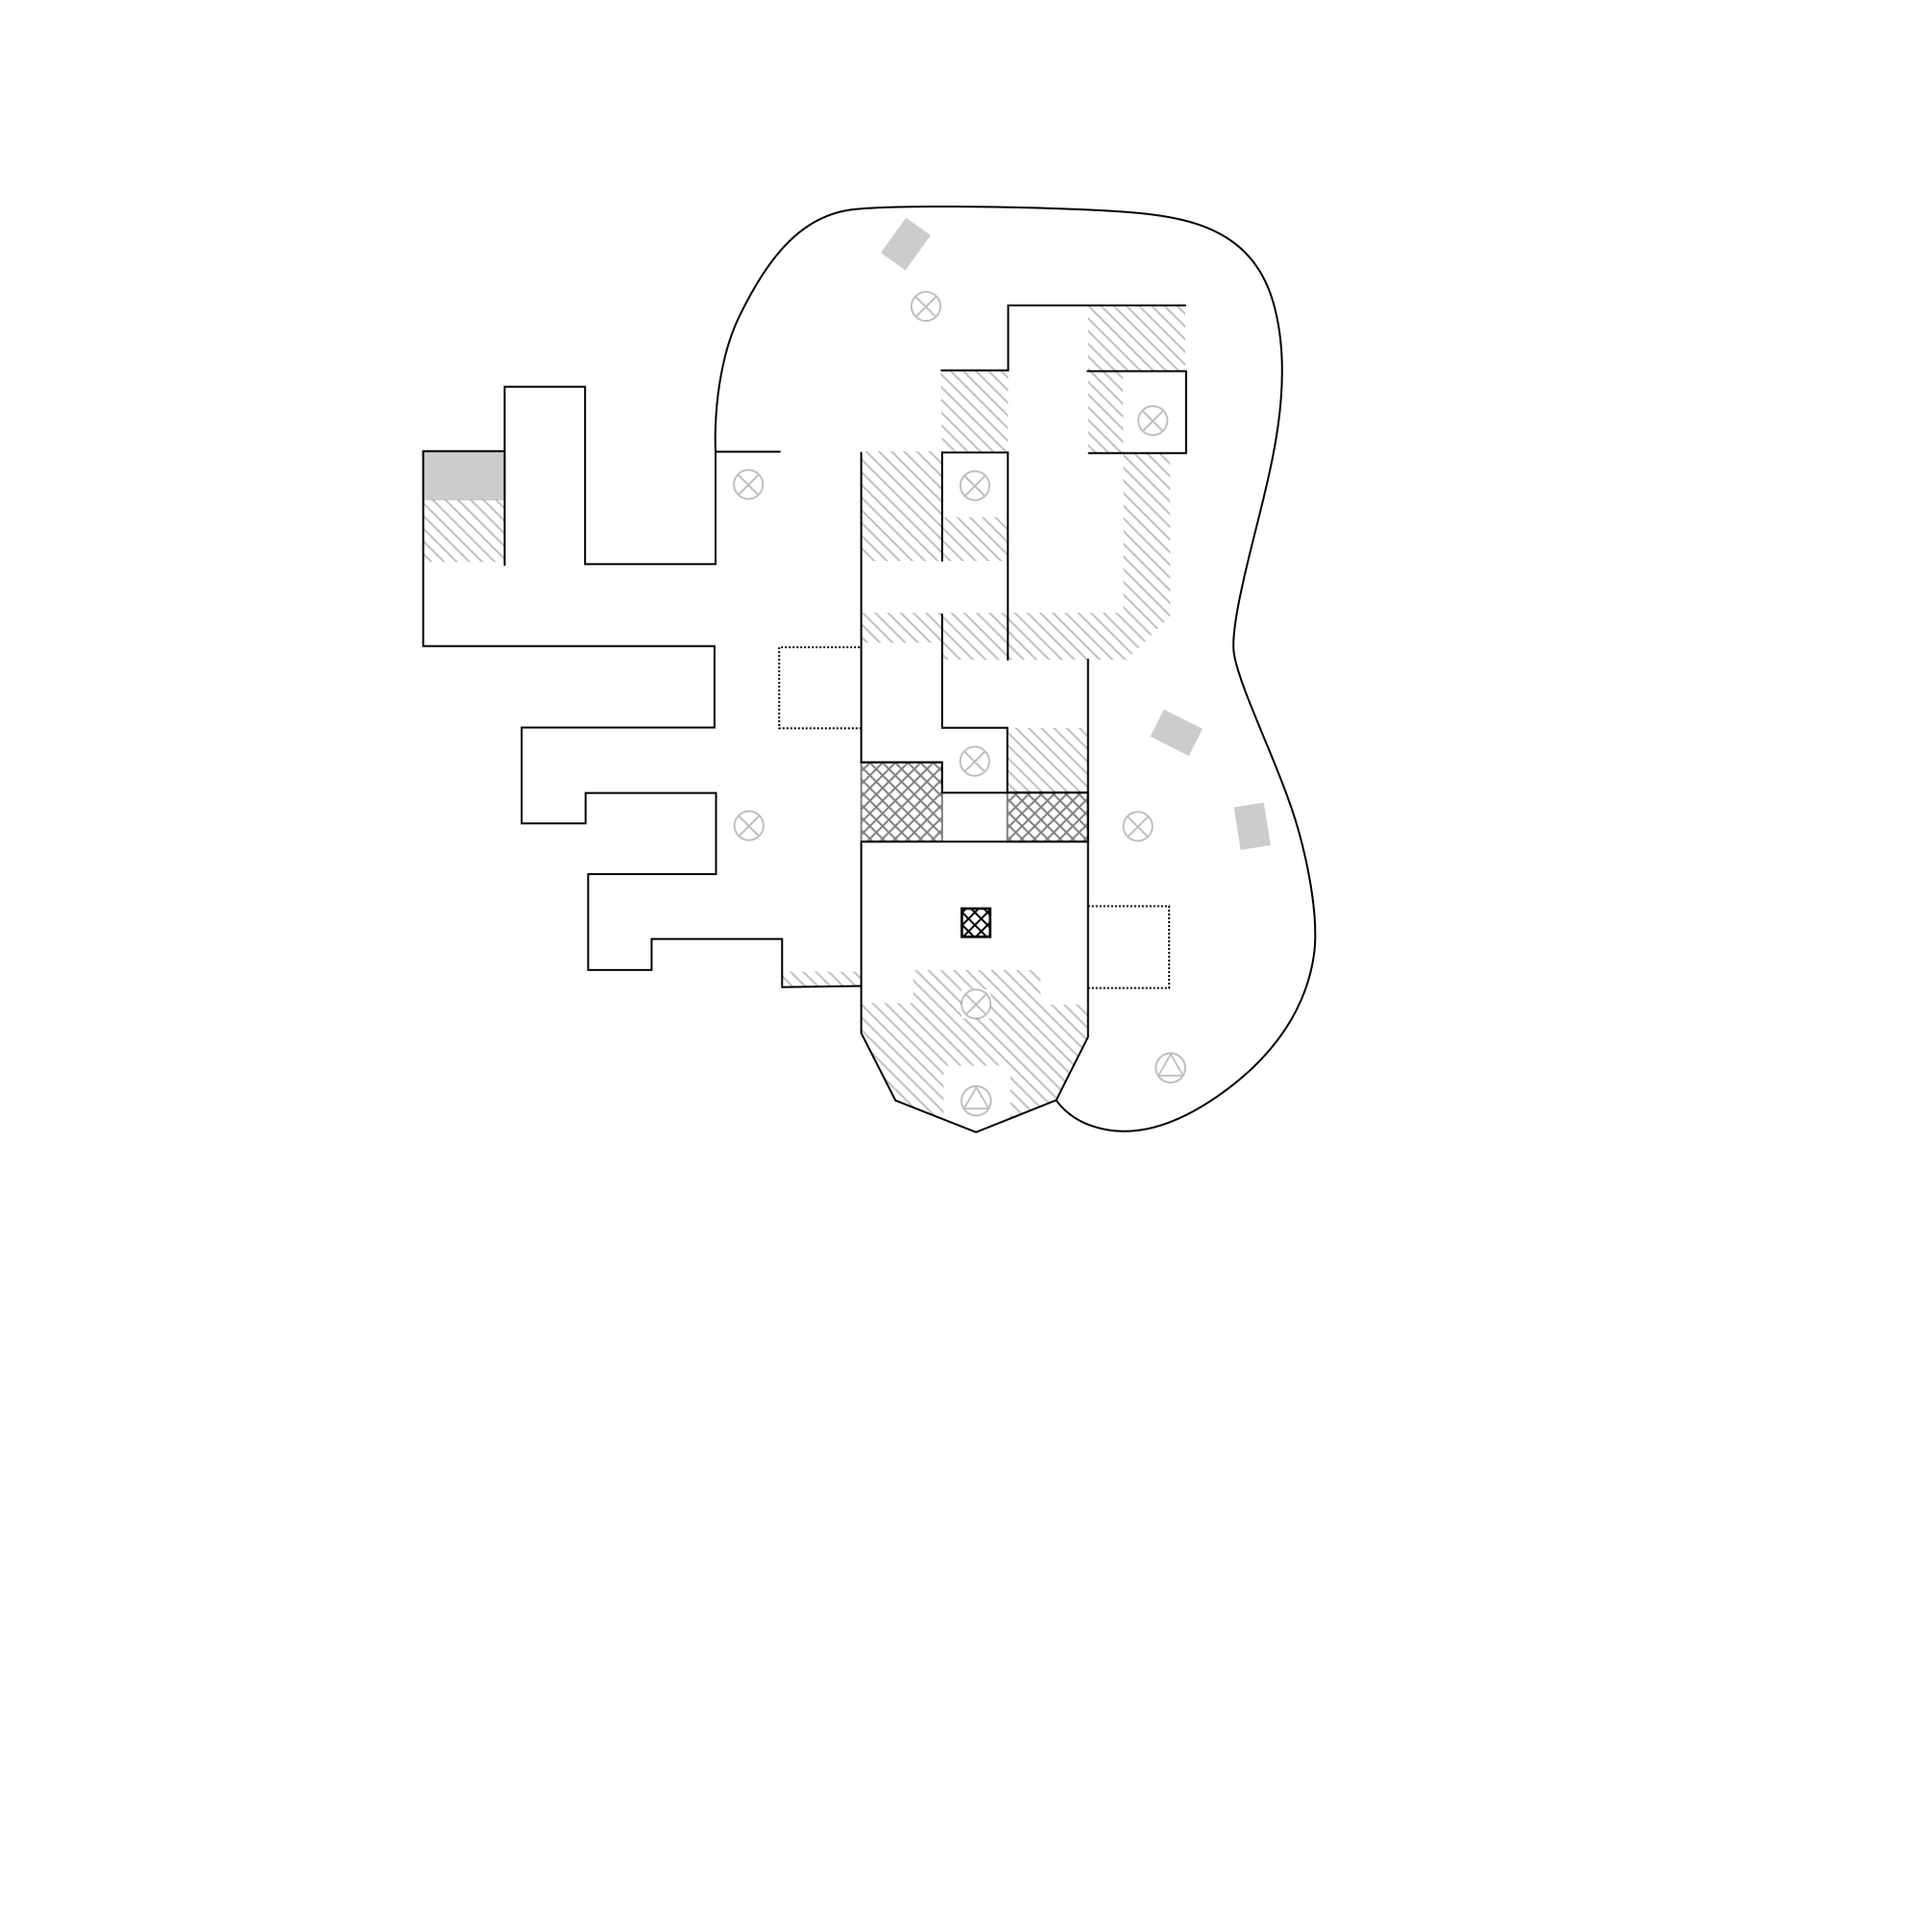
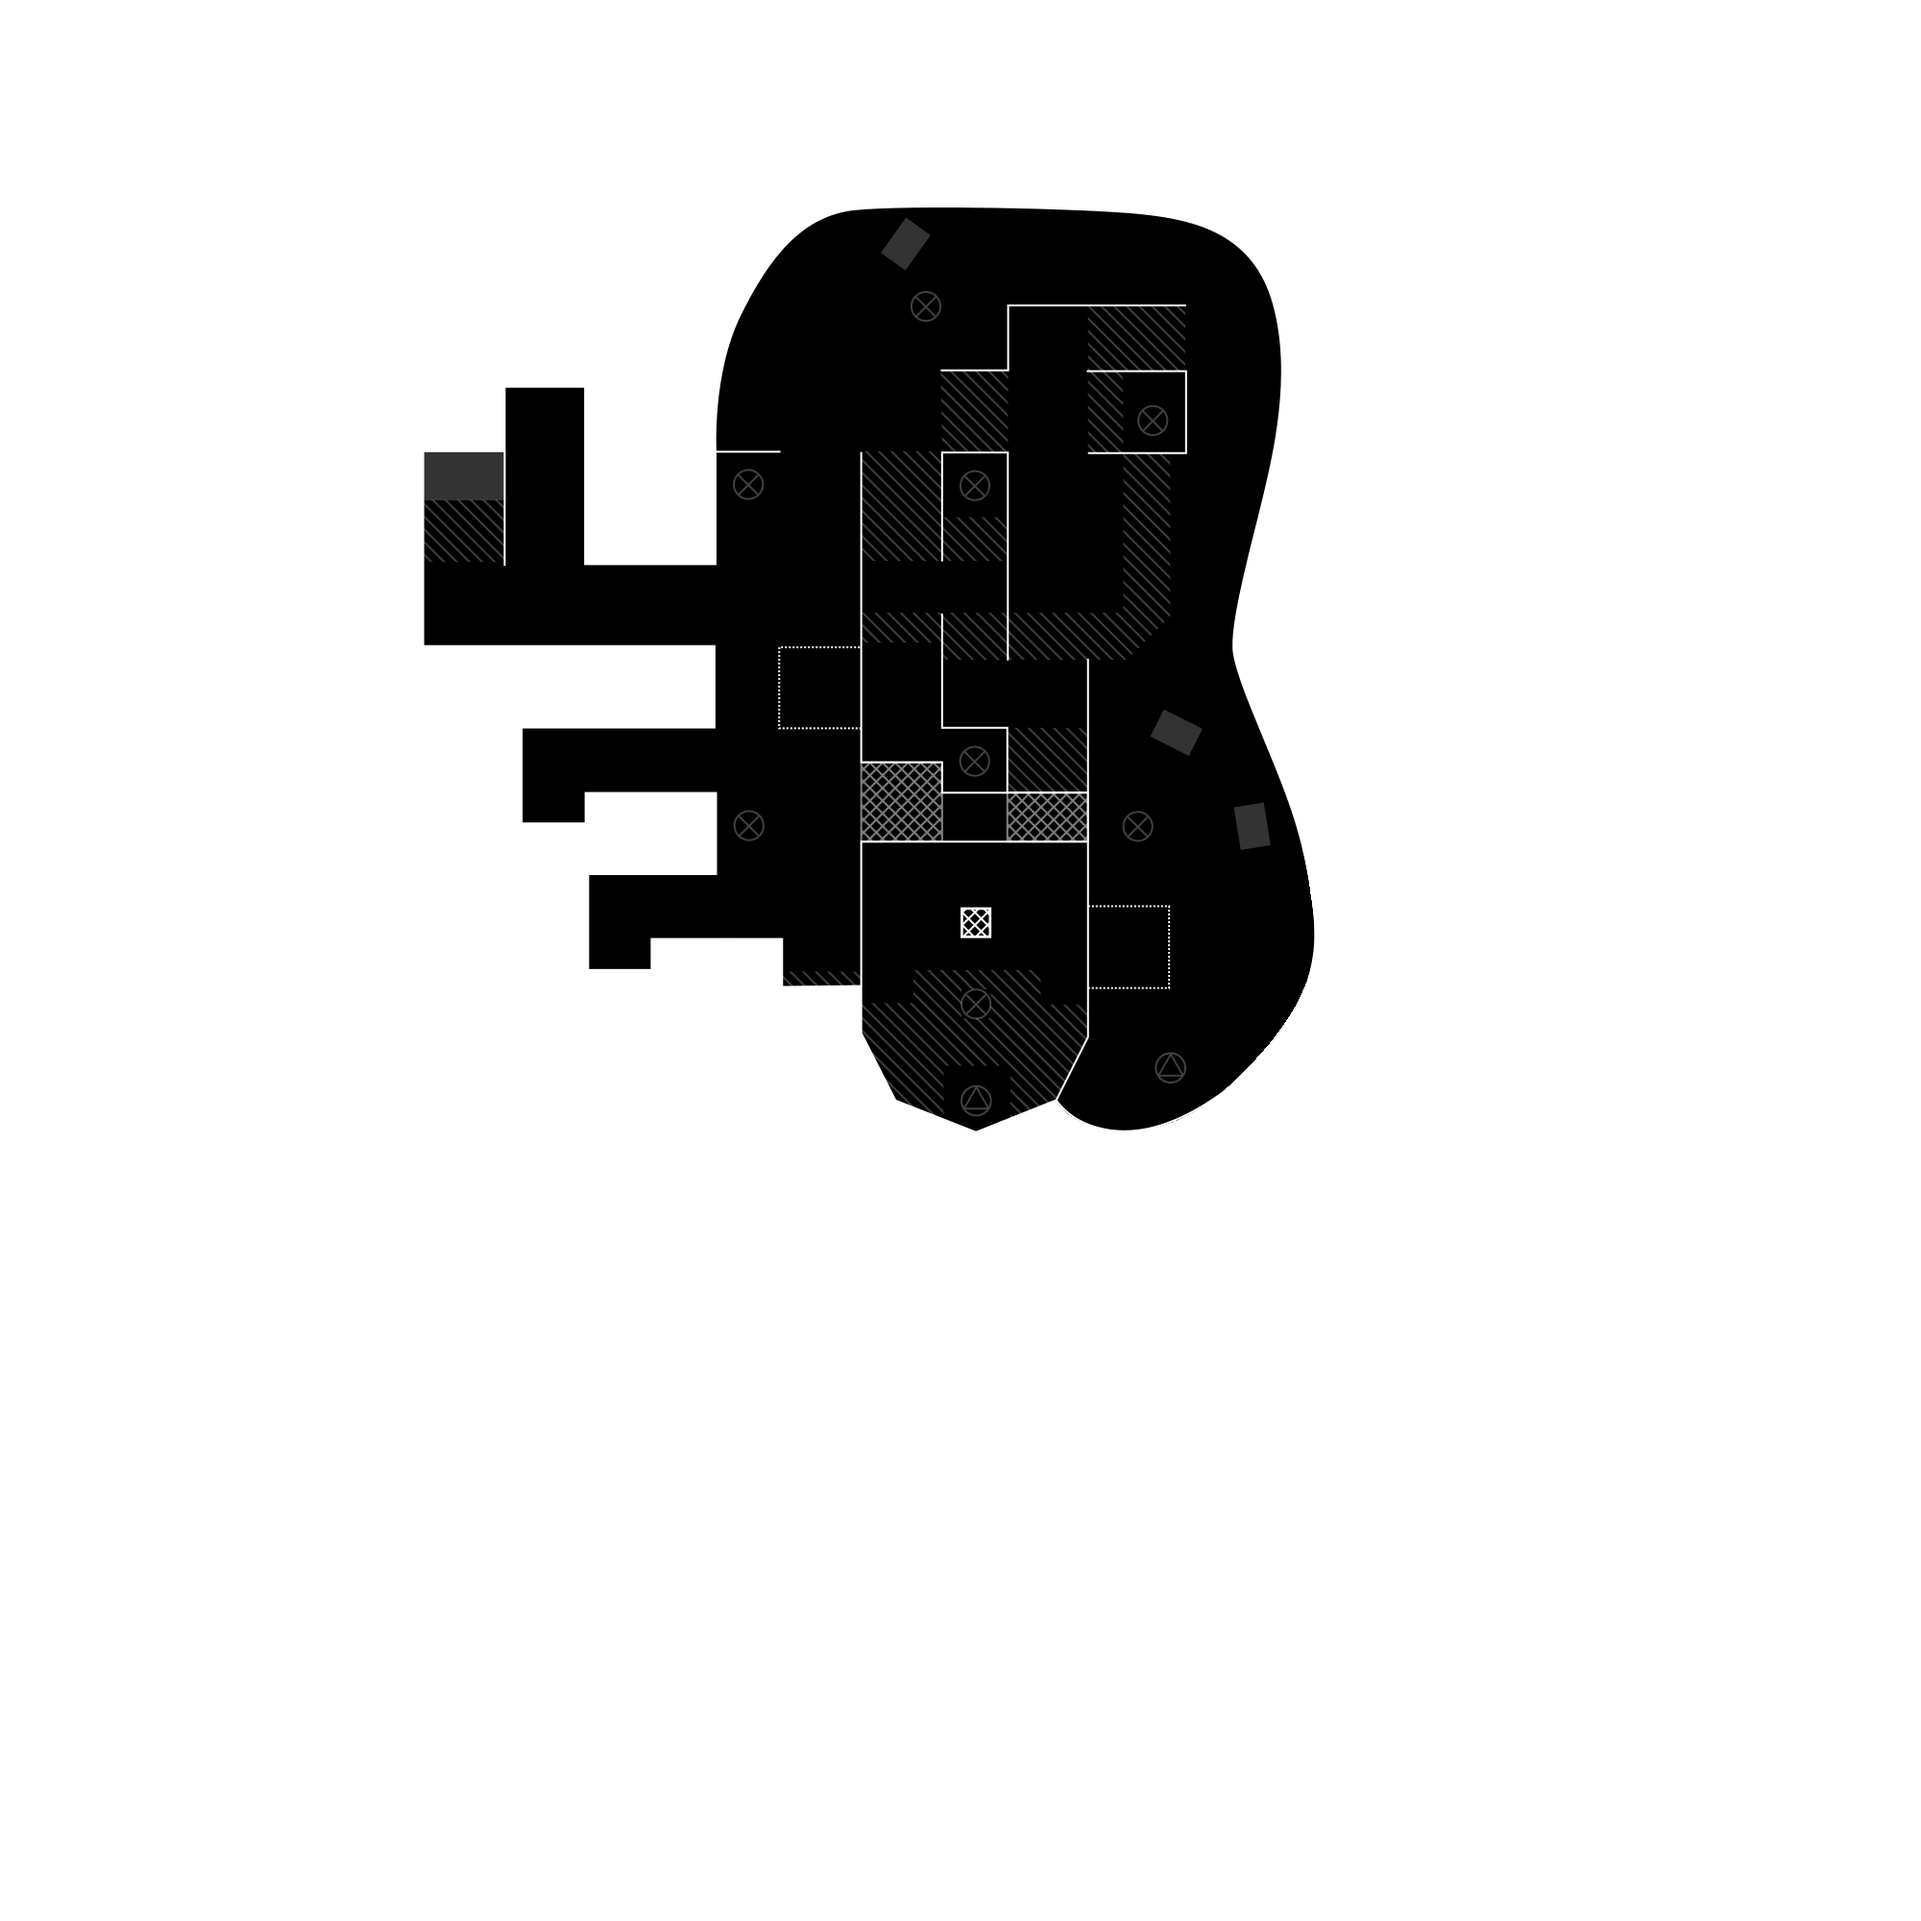
plot strategy flowcharts over maps

Changed region(s): [[0.217, 0.093, 0.682, 0.589]]

diff --git a/goldieseeker/GusherMap.py b/goldieseeker/GusherMap.py
@@ -4,6 +4,7 @@ from ast import literal_eval
 from numpy import genfromtxt, minimum
 from scipy.spatial.distance import cdist
 import matplotlib.pyplot as plt
+from matplotlib.colors import LinearSegmentedColormap
 import warnings
 
 # Special characters for parsing files
@@ -19,6 +20,28 @@ EXTENTS = {'ap': (660, 300, 760),
            'mb': (570, 260, 870),
            'sg': (888, 640, 850),
            'ss': (363, 526, 720)}
+
+# Colormap for plotting strategies
+HIGH_CDICT = {'red':   [[0.0, 1.0, 1.0],
+                        [1.0, 1.0, 1.0]],
+              'green': [[0.0, 0.8, 0.8],
+                        [0.6, 0.8, 0.8],
+                        [1.0, 1.0, 1.0]],
+              'blue':  [[0.0, 0.0, 0.0],
+                        [0.6, 0.0, 0.0],
+                        [1.0, 0.6, 0.6]]}
+
+LOW_CDICT =  {'red':   [[0.0, 0.0, 0.0],
+                        [0.6, 0.0, 0.0],
+                        [1.0, 0.6, 0.6]],
+              'green': [[0.0, 0.7, 0.7],
+                        [1.0, 0.9, 0.9]],
+              'blue':  [[0.0, 0.2, 0.2],
+                        [0.6, 0.3, 0.3],
+                        [1.0, 0.7, 0.7]]}
+
+high_cmap = LinearSegmentedColormap('HighPath', segmentdata=HIGH_CDICT, N=256)
+low_cmap = LinearSegmentedColormap('LowPath', segmentdata=LOW_CDICT, N=256)
 
 
 # noinspection PyTypeChecker,PyTypeChecker
@@ -144,7 +167,7 @@ class GusherMap:
         """Return the number of adjacent gushers for a given gusher."""
         return self.connections.degree[vertex]
 
-    def plot(self):
+    def plot(self, strategy=None):
         background = plt.imread(str(self._path.parent.parent.resolve()/f'images/{self.map_id}.png'))
         pos = {gusher['name']: tuple(gusher['coord']) for gusher in self._gushers if gusher['name'] != BASKET_LABEL}
         pos_attrs = {node: (coord[0] - 40, coord[1]) for (node, coord) in pos.items()}
@@ -157,12 +180,36 @@ class GusherMap:
             extent = None
 
         plt.figure()
+        ax = plt.subplot()
+        ax.set_facecolor('#555555')
         plt.imshow(background, extent=extent)
         plt.title(self.name)
-        nx.draw_networkx(self.connections, pos,
-                         node_color='#1a611b', edge_color='#35cc37', font_color='#ffffff', arrows=False)
+        nx.draw_networkx_edges(nx.to_undirected(self.connections), pos,
+                               edge_color='#888888', style='dashed', width=1.5)
         nx.draw_networkx_labels(self.connections, pos_attrs, labels={gusher: self.weight(gusher) for gusher in pos},
                                 font_weight='bold', font_color='#ff4a4a', horizontalalignment='right')
+
+        if strategy:
+            strat_graph = nx.to_networkx_graph(strategy.get_adj_dict(), create_using=nx.DiGraph)
+            node_colors = ['#2bff2b' if node == strategy.name else '#ffffff' for node in strat_graph.nodes]
+            # edge_colors = ['#ffdf40' if strat_graph[s][t]['adj'] else '#18a819' for s, t in strat_graph.edges]
+            high_edges = [(s, t) for s, t in strat_graph.edges if strat_graph[s][t]['adj']]
+            high_colors = [strat_graph[s][t]['depth'] for s, t in high_edges]
+            low_edges = [(s, t) for s, t in strat_graph.edges if not strat_graph[s][t]['adj']]
+            low_colors = [strat_graph[s][t]['depth'] for s, t in low_edges]
+            color_kwargs = ({'edgelist':  high_edges, 'edge_color': high_colors, 'edge_cmap': high_cmap},
+                            {'edgelist': low_edges, 'edge_color': low_colors, 'edge_cmap': low_cmap})
+            for kwargs in color_kwargs:
+                nx.draw_networkx_edges(strat_graph, pos,
+                                       width=2, connectionstyle='arc3, rad=0.25', min_target_margin=12,
+                                       arrowstyle='simple, head_length=1.2, head_width=1.2', **kwargs)
+
+            nx.draw_networkx_nodes(strat_graph, pos, node_color=node_colors)
+        else:
+            nx.draw_networkx_nodes(self.connections, pos, node_color='#ffffff')
+
+        nx.draw_networkx_labels(self.connections, pos, labels={gusher: gusher for gusher in pos}, font_color='#111111')
+
         plt.show()
 
 

diff --git a/goldieseeker/strats.py b/goldieseeker/strats.py
@@ -92,6 +92,7 @@ def get_strat(gushers, start=BASKET_LABEL, tuning=0.5, all_distances=None, all_w
                 neighborhood = set(gushers.adj(vertex))
                 suspect_if_high = suspected.intersection(neighborhood)
                 suspect_if_low = suspected.difference({vertex}).difference(neighborhood)
+                # suspect_if_high, suspect_if_low = split(suspected.difference({vertex}), neighborhood)
                 # Don't open non-suspected gushers that are adjacent to all/none of the suspected gushers
                 # Opening them can neither find the Goldie nor provide additional information about the Goldie
                 if not findable and not (suspect_if_high and suspect_if_low):

diff --git a/goldieseeker/GusherNode.py b/goldieseeker/GusherNode.py
@@ -203,12 +203,12 @@ class GusherNode:
             if node.parent:
                 depth = adj_dict[node.parent.name][node.name]['depth']
             else:
-                depth = 0
+                depth = 1
             children_dict = {}
             if node.high:
-                children_dict[node.high.name] = {'depth': depth + 1}
+                children_dict[node.high.name] = {'depth': depth*2, 'adj': 1}
             if node.low:
-                children_dict[node.low.name] = {'depth': depth + 1}
+                children_dict[node.low.name] = {'depth': depth*2, 'adj': 0}
             adj_dict[node.name] = children_dict
         return adj_dict
 

diff --git a/goldieseeker/__main__.py b/goldieseeker/__main__.py
@@ -67,7 +67,7 @@ def main(map_id, tuning, squad, strategy_str, weights, quiet, debug):
             # strat.validate(gusher_map)
         click.echo(strat.report(gusher_map, quiet=quiet))
         if quiet < 1:
-            gusher_map.plot()
+            gusher_map.plot(strat)
 
 
 if __name__ == '__main__':
